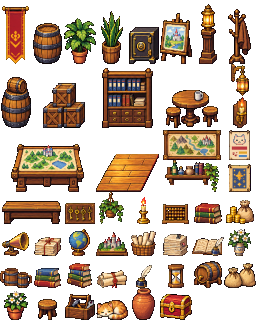
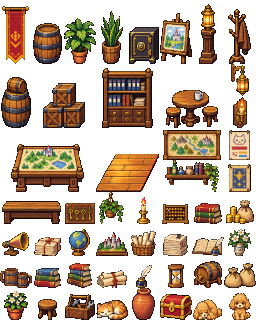
feat: decor に眠るトイプードルと起きたトイプードルを足す

Changed region(s): [[0.75, 0.9062, 1.0, 1.0]]

diff --git a/assets/decor/decor.ts b/assets/decor/decor.ts
@@ -52,6 +52,8 @@ export const DECOR = {
   'sleeping-cat': { col: 3, row: 9, w: 1, h: 1 },
   jar: { col: 4, row: 9, w: 1, h: 1 },
   chest: { col: 5, row: 9, w: 1, h: 1 },
+  'sleeping-poodle': { col: 6, row: 9, w: 1, h: 1 },
+  'awake-poodle': { col: 7, row: 9, w: 1, h: 1 },
 } as const;
 
 export type DecorName = keyof typeof DECOR;

diff --git a/assets/decor/build_decor.py b/assets/decor/build_decor.py
@@ -1,10 +1,10 @@
-"""Normalize the codex-generated decor sheets (decor_raw_a/b.png) into decor.png.
+"""Normalize the codex-generated decor sheets (decor_raw_a/b/poodle.png) into decor.png.
 
-Usage: python build_decor.py <decor_raw_a.png> <decor_raw_b.png> <decor.png>
+Usage: python build_decor.py <decor_raw_a.png> <decor_raw_b.png> <decor_raw_poodle.png> <decor.png>
 Ran with Python 3.14.7 and Pillow 12.3.0 (installed in a throwaway venv,
 not a project dependency).
 
-The raw images follow prompt.txt (128px cells on a #FF00FF background), but
+The raw images follow prompt.txt and prompt-poodle.txt (128px cells on a #FF00FF background), but
 the generator drifts off its grid, so every piece is found by a hand-measured
 search region instead of its grid cell: the piece is made of the opaque
 components whose center lies in the region (only their pixels, so a
@@ -42,6 +42,7 @@ OUTLINE = (44, 26, 20)
 RAW = {
[3 lines of base64/hex data omitted]
 }
 
 # name: (raw sheet, search region (left, top, right, bottom) in raw pixels,
@@ -96,6 +97,8 @@ LAYOUT = {
     "sleeping-cat": ("b", (752, 690, 900, 792), 3, 9, 1, 1),
     "jar": ("b", (906, 646, 1018, 796), 4, 9, 1, 1),
     "chest": ("b", (380, 790, 544, 924), 5, 9, 1, 1),
+    "sleeping-poodle": ("poodle", (250, 280, 390, 390), 6, 9, 1, 1),
+    "awake-poodle": ("poodle", (650, 260, 760, 390), 7, 9, 1, 1),
 }
 
 
@@ -291,12 +294,12 @@ def same_file(a, b):
     return os.path.realpath(a) == os.path.realpath(b) or (os.path.exists(b) and os.path.samefile(a, b))
 
 
-def main(src_a, src_b, dst):
-    if same_file(src_a, dst) or same_file(src_b, dst):
+def main(src_a, src_b, src_poodle, dst):
+    if same_file(src_a, dst) or same_file(src_b, dst) or same_file(src_poodle, dst):
         raise SystemExit("output path must differ from the source images")
     check_slots()
     check_decor_ts()
-    raws = {"a": load_raw("a", src_a), "b": load_raw("b", src_b)}
+    raws = {"a": load_raw("a", src_a), "b": load_raw("b", src_b), "poodle": load_raw("poodle", src_poodle)}
     sheet = Image.new("RGBA", (SHEET_COLS * TILE, SHEET_ROWS * TILE), (0, 0, 0, 0))
     placed = set()
     for sheet_id, raw in raws.items():
@@ -310,6 +313,6 @@ def main(src_a, src_b, dst):
 
 
 if __name__ == "__main__":
-    if len(sys.argv) != 4:
-        raise SystemExit("usage: python build_decor.py <decor_raw_a.png> <decor_raw_b.png> <decor.png>")
-    main(sys.argv[1], sys.argv[2], sys.argv[3])
+    if len(sys.argv) != 5:
+        raise SystemExit("usage: python build_decor.py <decor_raw_a.png> <decor_raw_b.png> <decor_raw_poodle.png> <decor.png>")
+    main(sys.argv[1], sys.argv[2], sys.argv[3], sys.argv[4])
